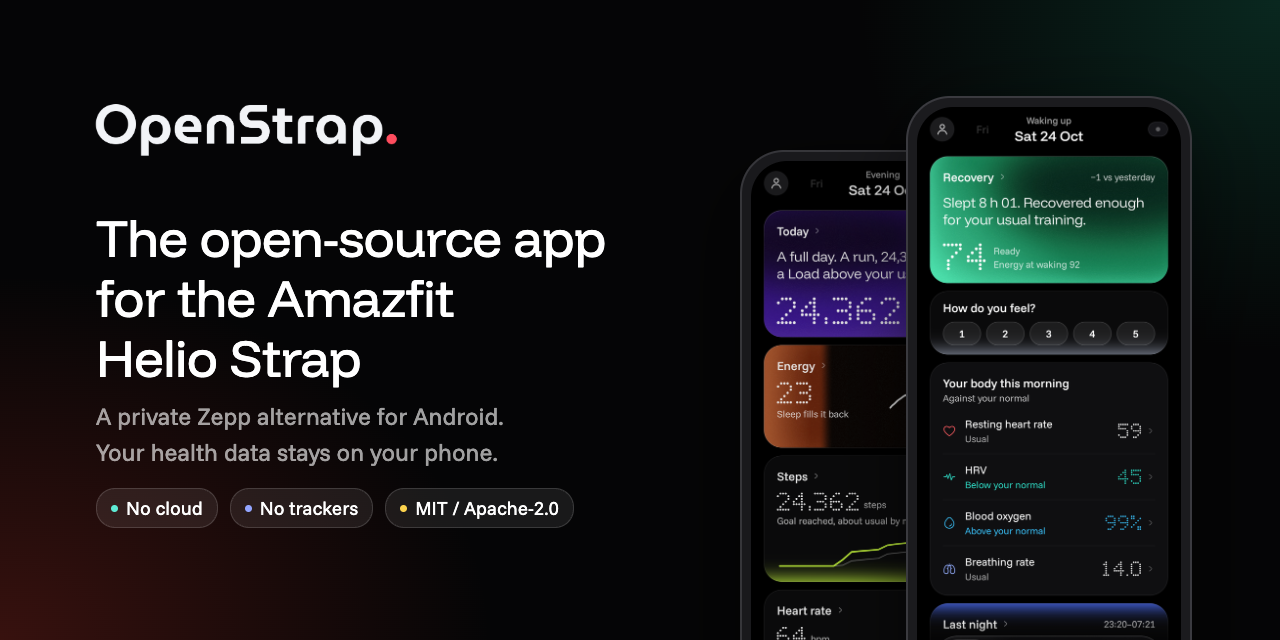
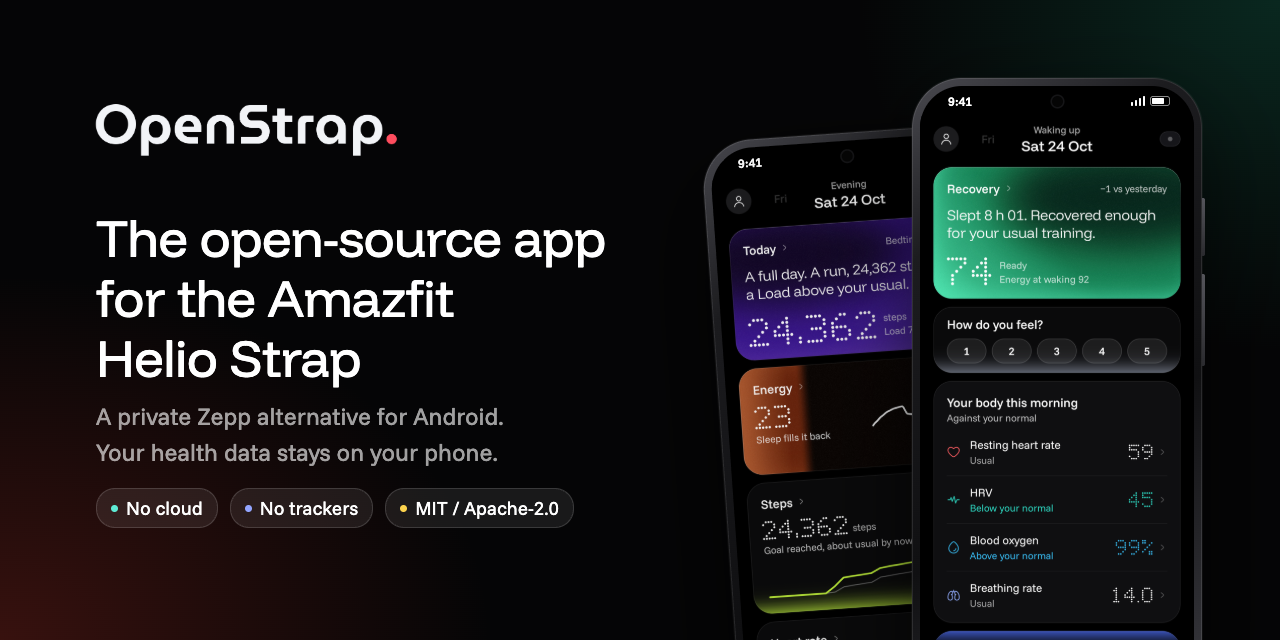
Social preview: phones with a real frame
A metal rim, side buttons, a punch-hole camera and a status bar, and the back
phone tilted a little behind the front one.

Changed region(s): [[0.5312, 0.125, 0.9375, 1.0]]

diff --git a/docs/assets/social-preview.html b/docs/assets/social-preview.html
@@ -14,10 +14,21 @@ h1{position:absolute;left:96px;top:208px;margin:0;font-family:FD;font-weight:400
 .chips{position:absolute;left:96px;top:488px;display:flex;gap:12px}
 .chip{display:flex;align-items:center;gap:8px;height:38px;padding:0 14px;border-radius:19px;background:rgba(255,255,255,.08);border:1px solid rgba(255,255,255,.14);font-size:19px}
 .dot{width:7px;height:7px;border-radius:50%}
-.phone{position:absolute;width:286px;height:620px;border-radius:44px;background:#1b1b1e;border:2px solid #3a3a3f;padding:9px;box-sizing:border-box;box-shadow:0 30px 80px rgba(0,0,0,.6)}
-.phone img{width:100%;border-radius:36px;display:block}
-.back{left:740px;top:150px;opacity:.92}
-.front{left:906px;top:96px}
+.phone{position:absolute;width:290px;height:628px;border-radius:50px;padding:8px;box-sizing:border-box;
+ background:linear-gradient(145deg,#4a4a50 0%,#1c1c1f 22%,#101012 60%,#3a3a40 100%);
+ box-shadow:0 40px 90px rgba(0,0,0,.7),0 0 0 1px rgba(255,255,255,.06),inset 0 0 0 1px rgba(255,255,255,.10)}
+.phone::before,.phone::after{content:"";position:absolute;right:-3px;width:3px;border-radius:0 2px 2px 0;background:linear-gradient(#55555b,#2a2a2e)}
+.phone::before{top:120px;height:58px}
+.phone::after{top:196px;height:92px}
+.screen{position:relative;width:100%;height:100%;border-radius:42px;overflow:hidden;background:#000}
+.status{height:30px;display:flex;align-items:center;justify-content:space-between;padding:0 24px 0 28px;font:600 12.5px FS;color:#fff}
+.icons{display:flex;gap:5px;align-items:center}
+.bars{display:flex;gap:1.5px;align-items:flex-end;height:10px}.bars i{width:2.5px;background:#fff;border-radius:1px}
+.batt{width:20px;height:10px;border:1.3px solid rgba(255,255,255,.55);border-radius:3px;padding:1px;box-sizing:border-box}.batt i{display:block;height:100%;width:78%;background:#fff;border-radius:1px}
+.cam{position:absolute;top:10px;left:50%;width:11px;height:11px;margin-left:-5.5px;border-radius:50%;background:#050505;box-shadow:0 0 0 1.5px #151517}
+.screen img{width:100%;display:block}
+.back{left:722px;top:132px;transform:rotate(-4deg);opacity:.95}
+.front{left:912px;top:78px}
 </style></head><body>
 <img class="logo" src="logo-dark.png">
 <h1>The open-source app<br>for the Amazfit<br>Helio Strap</h1>
@@ -27,6 +38,6 @@ h1{position:absolute;left:96px;top:208px;margin:0;font-family:FD;font-weight:400
  <div class="chip"><span class="dot" style="background:#93a5ff"></span>No trackers</div>
  <div class="chip"><span class="dot" style="background:#fcd34d"></span>MIT / Apache-2.0</div>
 </div>
-<div class="phone back"><img src="../screenshots/evening.png"></div>
-<div class="phone front"><img src="../screenshots/today.png"></div>
+<div class="phone back"><div class="screen"><div class="status"><span>9:41</span><span class="icons"><span class="bars"><i style="height:4px"></i><i style="height:6px"></i><i style="height:8px"></i><i style="height:10px"></i></span><span class="batt"><i></i></span></span></div><div class="cam"></div><img src="../screenshots/evening.png"></div></div>
+<div class="phone front"><div class="screen"><div class="status"><span>9:41</span><span class="icons"><span class="bars"><i style="height:4px"></i><i style="height:6px"></i><i style="height:8px"></i><i style="height:10px"></i></span><span class="batt"><i></i></span></span></div><div class="cam"></div><img src="../screenshots/today.png"></div></div>
 </body></html>
